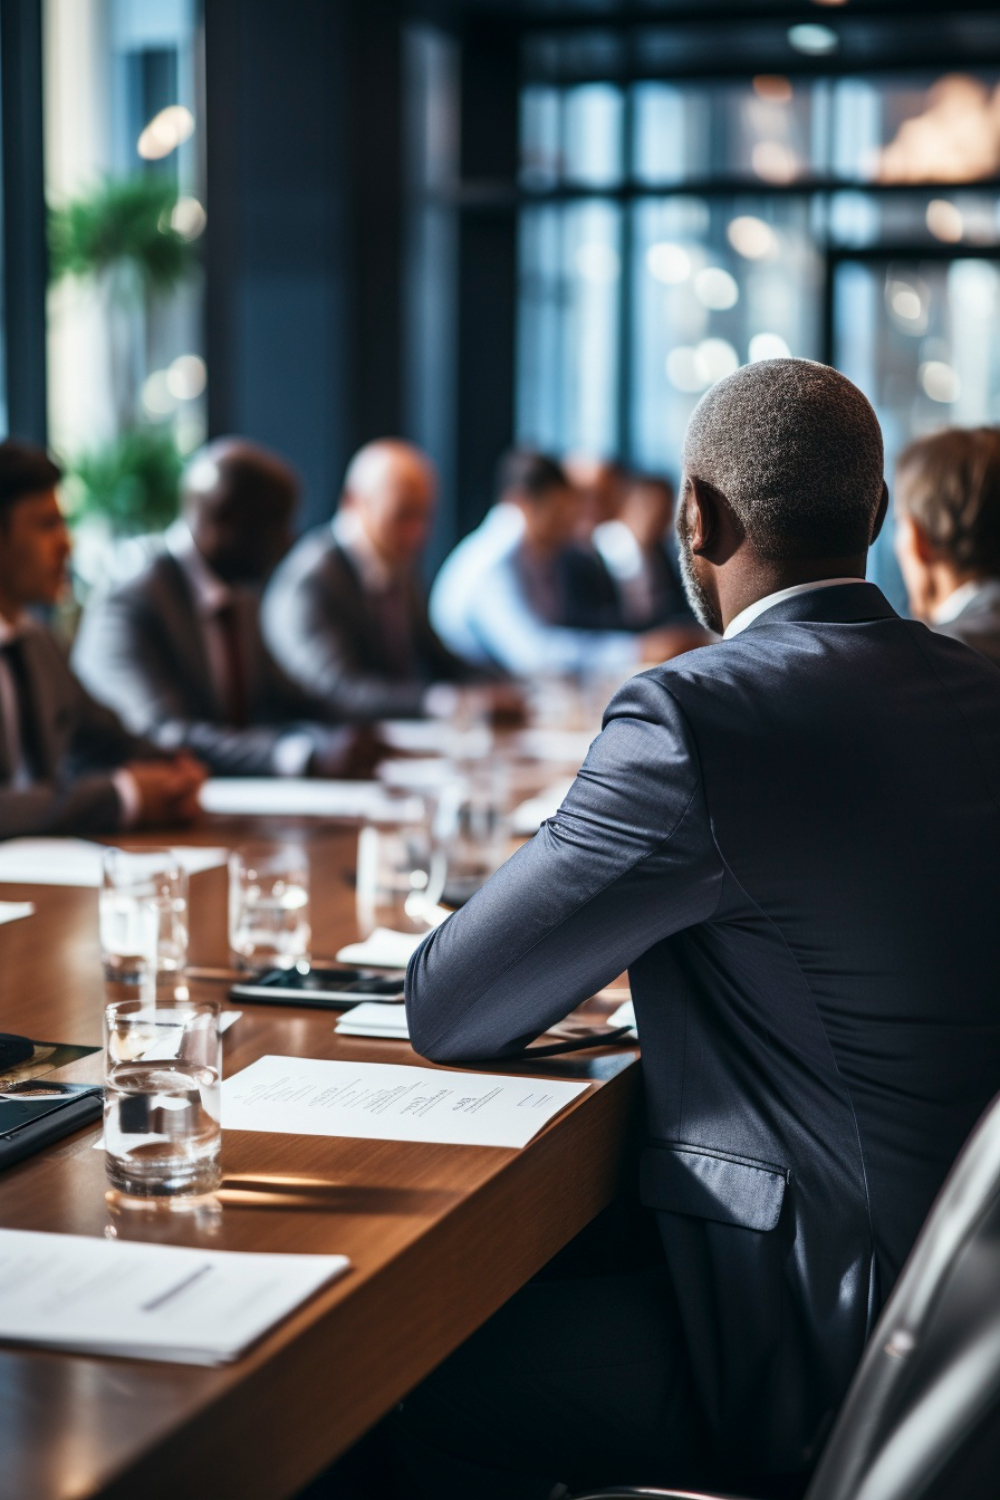
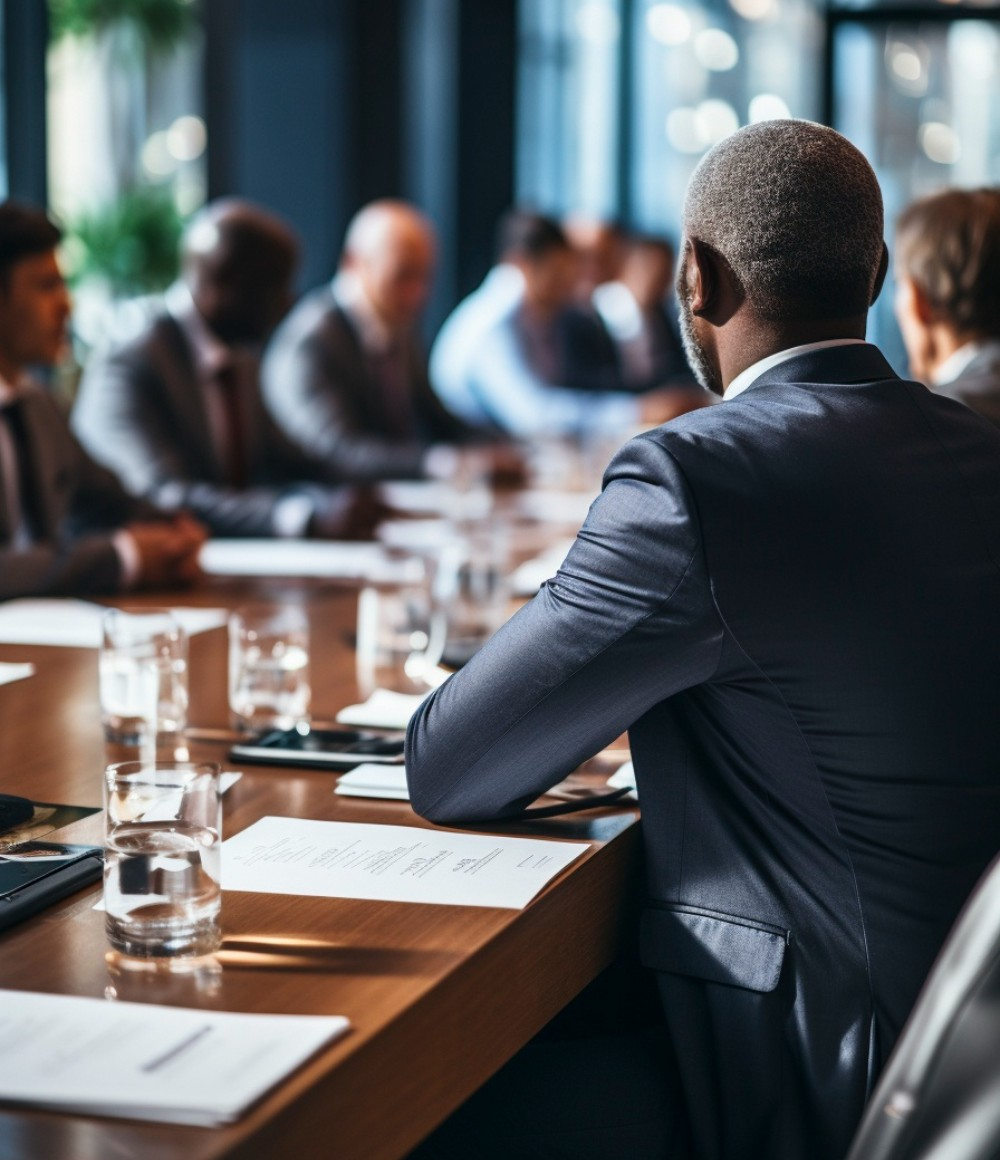
first commit5

diff --git a/assets/js/view/home/home.html b/assets/js/view/home/home.html
@@ -1,6 +1,6 @@
 <div>
 
-    <!-- Header com Swiper.js Slider (Cenários & Textos Dinâmicos Sincronizados) -->
+    <!-- Header com Swiper.js Slider (Cenários & Textos Dinâmicos Sincronizados) Atuação Nacional -->
     <header class="hero-section text-center">
         <div class="swiper swiper-hero">
             <div class="hero-autoplay-progress">
@@ -11,7 +11,7 @@
                 <!-- Slide 1: Estratégia -->
                 <div class="swiper-slide">
                     <div class="swiper-slide-bg"
-                        style="background-image: linear-gradient(rgba(15, 36, 29, 0.75), rgba(15, 36, 29, 0.95)), url('https://images.unsplash.com/photo-1524178232363-1fb2b075b655?auto=format&fit=crop&w=1920&q=80');">
+                        style="background-image: linear-gradient(rgba(37, 37, 37, 0.75), rgba(0, 0, 0, 0.95)), url('https://images.unsplash.com/photo-1524178232363-1fb2b075b655?auto=format&fit=crop&w=1920&q=80');">
                     </div>
                     <div class="container slide-content ">
                         <p class="text-uppercase tracking-widest text-gold small mb-3">Governança, Estratégia e
@@ -31,7 +31,7 @@
                 <!-- Slide 2: Liderança / Formação -->
                 <div class="swiper-slide">
                     <div class="swiper-slide-bg"
-                        style="background-image: linear-gradient(rgba(15, 36, 29, 0.75), rgba(15, 36, 29, 0.95)), url('https://images.unsplash.com/photo-1524178232363-1fb2b075b655?auto=format&fit=crop&w=1920&q=80');">
+                        style="background-image: linear-gradient(rgba(80, 80, 80, 0.75), rgba(0, 0, 0, 0.95)), url('https://images.unsplash.com/photo-1524178232363-1fb2b075b655?auto=format&fit=crop&w=1920&q=80');">
                     </div>
                     <div class="container slide-content">
                         <p class="text-uppercase tracking-widest text-gold small mb-3">Centro de Formação e
@@ -51,7 +51,7 @@
                 <!-- Slide 3: Tecnologia e Processos -->
                 <div class="swiper-slide">
                     <div class="swiper-slide-bg"
-                        style="background-image: linear-gradient(rgba(15, 36, 29, 0.75), rgba(15, 36, 29, 0.95)), url('https://images.unsplash.com/photo-1460925895917-afdab827c52f?auto=format&fit=crop&w=1920&q=80');">
+                        style="background-image: linear-gradient(rgba(80, 80, 80, 0.75), rgba(0, 0, 0, 0.95)), url('https://images.unsplash.com/photo-1460925895917-afdab827c52f?auto=format&fit=crop&w=1920&q=80');">
                     </div>
                     <div class="container slide-content">
                         <p class="text-uppercase tracking-widest text-gold small mb-3">Engenharia de Processos &
@@ -119,8 +119,8 @@
                 </div>
                 <div class="col-lg-6">
                     <span class="text-accent fw-bold text-uppercase tracking-wider">FinanceWell</span>
-                    <h2 class="fw-bold my-3 display-6">Construindo o Futuro das Organizações</h2>
-                    <p class=" ">Somós uma empresa de consultoria empresarial e formação profissional que fornece
+                    <h2 class="fw-bold my-3 display-6 text-preto">Construindo o Futuro das Organizações</h2>
+                    <p class="text-preto ">Somós uma empresa de consultoria empresarial e formação profissional que fornece
                         serviços de qualidade para ajudar outras empresas a melhorar seus processos e procedimentos,
                         estratégias e o desempenho em geral. Trabalhando em estreita colaboração com clientes para
                         identificar desafios, desenvolver soluções e implementar mudanças que visem a melhor eficiência,
@@ -225,16 +225,16 @@
 
 
     <!-- Seção 1: Consultoria Empresarial -->
-    <section id="consultoria" class="py-5 bg-dark-green mt-5">
+    <section id="consultoria" class="py-5  mt-5">
         <div class="container py-4">
             <div class="row align-items-center g-5">
                 <div class="col-md-6">
                     <img src="https://images.unsplash.com/photo-1517245386807-bb43f82c33c4?auto=format&fit=crop&w=800&q=80"
                         alt="Consultoria Estratégica" class="img-fluid img-styled w-100 shadow">
                 </div>
-                <div class="col-md-6">
-                    <h2 class="text-gold h1 mb-4">Eficiência operacional e reestruturação estratégica.</h2>
-                    <p class="small mb-3">
+                <div class="col-md-6 text-preto">
+                    <h2 class="text-preto h1 mb-4">Eficiência operacional e reestruturação estratégica.</h2>
+                    <p class="small mb-3 ">
                         Nossa abordagem de consultoria analisa minuciosamente a saúde financeira, processos internos e o
                         posicionamento de mercado da sua empresa para erradicar gargalos operacionais.
                     </p>
@@ -258,8 +258,8 @@
     <!-- Seção 3: Trilhas de Aprendizado / Soluções -->
     <section id="solucoes" class="py-5 bg-medium-green text-center">
         <div class="container py-4">
-            <h2 class="text-gold h1 mb-2">Notícias em destaque</h2>
-            <p class="small mb-5">Partilhamos conhecimento, tendências e histórias sobre diversos assunto para
+            <h2 class="text-preto h1 mb-2">Notícias em destaque</h2>
+            <p class="small mb-5 text-preto">Partilhamos conhecimento, tendências e histórias sobre diversos assunto para
                 impulsionar o seu futuro profissional em Angola.</p>
 
             <!-- Article Grid -->
@@ -294,15 +294,15 @@
 
 
     <!-- Seção 4: Presença Institucional -->
-    <section id="sobre" class="py-5 bg-dark-green">
+    <section id="sobre" class="py-5 ">
         <div class="container py-4">
             <div class="row align-items-center g-5">
                 <div class="col-md-5">
                     <div class="d-flex align-items-center gap-2 mb-3">
-                        <i class="fa-solid fa-earth-americas text-gold fs-3"></i>
-                        <h2 class="text-gold h1 m-0">Atuação Nacional</h2>
+                        <i class="fa-solid fa-earth-americas text-preto fs-3"></i>
+                        <h2 class="text-preto h1 m-0">Atuação Nacional</h2>
                     </div>
-                    <p class="small  mb-4">
+                    <p class="small text-preto mb-4">
                         Com uma estrutura moderna e uma equipa altamente qualificada, prestamos serviços de consultoria
                         e formação profissional em todo o território nacional, oferecendo soluções presenciais, híbridas
                         e remotas adaptadas às necessidades de cada cliente. Nosso compromisso é garantir atendimento
@@ -337,21 +337,5 @@
         </div>
     </section>
 
-    <!-- Rodapé Corporativo -->
-    <footer class="py-4 bg-dark-green text-center">
-        <div class="container">
-            <div class="navbar-brand text-white d-flex flex-column align-items-center mb-3">
-                <span style="font-size: 0.6rem; letter-spacing: 5px; color: var(--accent-gold);">ALLIANCE</span>
-                <span class="font-serif h5 m-0" style="letter-spacing: 2px;">CONSULTORIA CORRELAÇÃO</span>
-            </div>
-
-            <div class="d-flex justify-content-center gap-3 mb-3">
-                <a href="#" class="text-gold fs-5"><i class="fa-brands fa-whatsapp"></i></a>
-                <a href="#" class="text-gold fs-5"><i class="fa-brands fa-linkedin"></i></a>
-                <a href="#" class="text-gold fs-5"><i class="fa-brands fa-instagram"></i></a>
-            </div>
-
-
-        </div>
-    </footer>
+   
 </div>

diff --git a/assets/css/style.css b/assets/css/style.css
@@ -1,9 +1,9 @@
  :root {
-     --primary-dark: #0f241d;
-     --secondary-dark: #163228;
-     --Success-blue: #0063a5;
+     --primary-dark: #ffffff;
+     --secondary-dark: #f7f7f7;
+     --Success-blue: #0089e4;
      --dark: #333333;
-     --accent-gold: #c5a880;
+     --accent-gold: #ffffff;
      --accent-gold-hover: #b3946c;
      --text-light: #ffffff;
      --text-muted: #ffffff;
@@ -11,11 +11,9 @@
      --light-bg: #f8f9fa;
      --primary-green: #156034;
      --light-green: #228b4a;
-     --text-preto: #777777;
+     --text-preto: #ffffff;
  }
-
-
-
+ 
  body {
      font-family: 'Poppins', sans-serif;
      background-color: var(--primary-dark);
@@ -24,7 +22,6 @@
  }
 
 
- 
  .spaco {
    margin: 200px;
  }
@@ -90,7 +87,7 @@
  }
 
  .btn-gold {
-     background-color: var(--accent-gold);
+     background-color: var(--Success-blue);
      color: var(--primary-dark);
      font-weight: 600;
      border: 2px solid var(--accent-gold);
@@ -331,7 +328,7 @@
      border-radius: 4px;
      padding: 24px;
      height: 100%;
-     background-color: rgba(22, 50, 40, 0.9);
+     background-color: #0089e4;
      backdrop-filter: blur(6px);
      box-shadow: 0 10px 30px rgba(0, 0, 0, 0.3);
  }
@@ -581,11 +578,8 @@
  }
 
  section.module.parallax .index-50 {
-     color: #FFF;
-
-
-     z-index: 50;
-     text-transform: uppercase;
+     color: #FFF; 
+     z-index: 50; 
  }
 
  @media all and (max-width: 820px) {